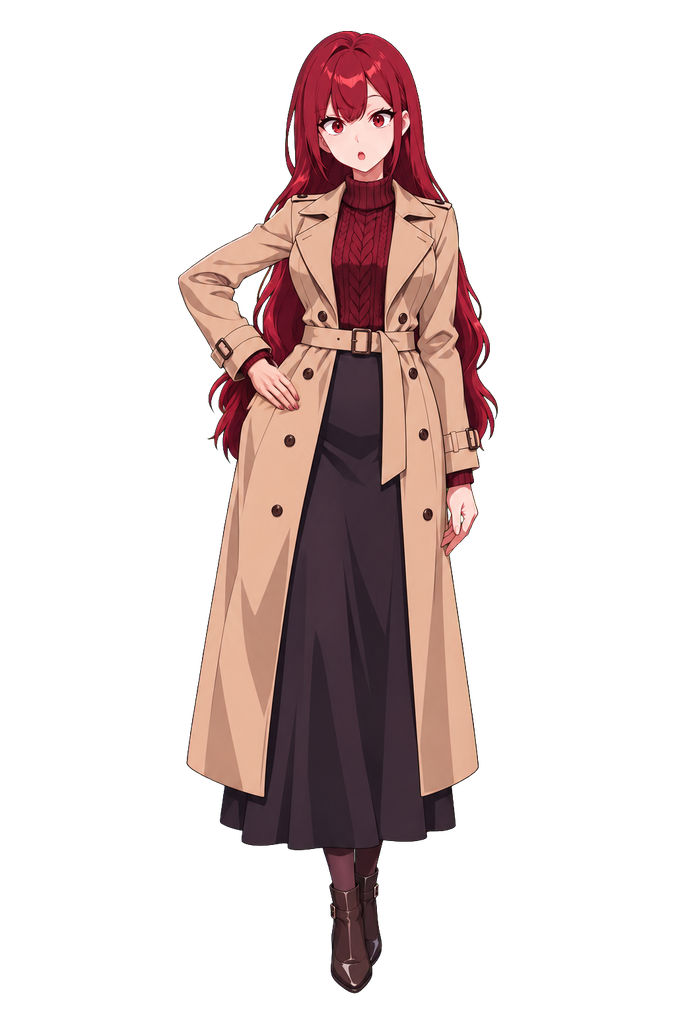
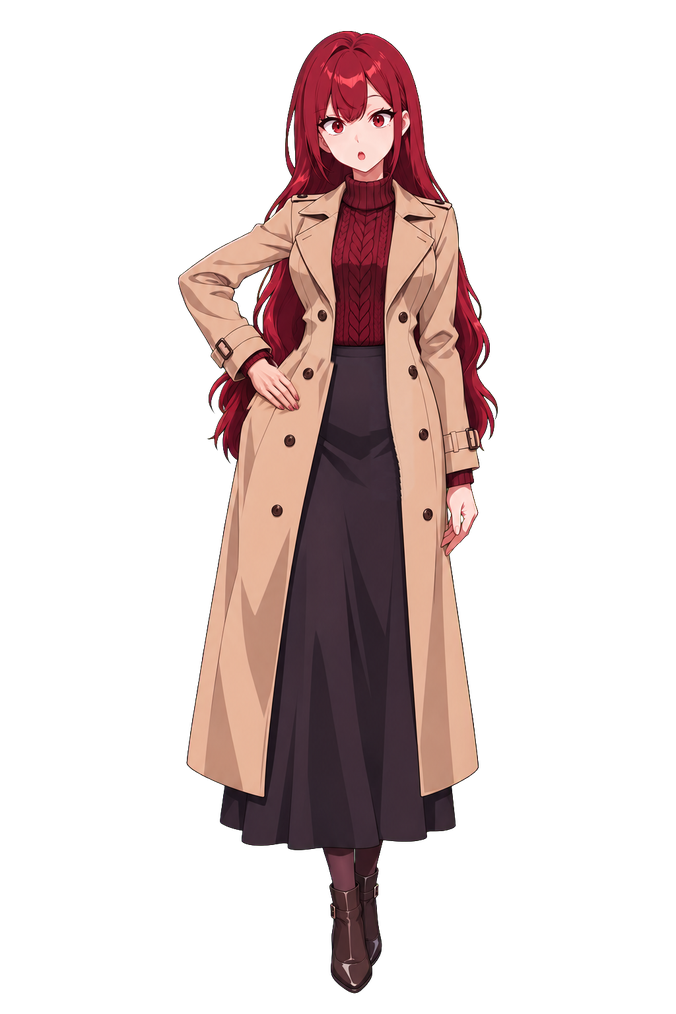
Sync runtime art with beltless Jihyun casual sprites and r16b v003; add sync tool
Claude-Session: https://claude.ai/code/session_01Dnvp3arKhcQBC88sGG3zUd

Changed region(s): [[0.4349, 0.3057, 0.6213, 0.4892]]

diff --git a/Source/tools/sync_runtime_art.py b/Source/tools/sync_runtime_art.py
@@ -1,0 +1,42 @@
+#!/usr/bin/env python3
+# 사용: 저장소 루트에서 python Source/tools/sync_runtime_art.py (Pillow, numpy 필요). 외부 접속 없음.
+# 후보 폴더의 최신 승인본과 게임용 사본을 맞춘다(바뀐 것만 다시 만든다).
+import glob,os,re,json,hashlib
+from PIL import Image
+import numpy as np
+C="CharacterArt/candidates/"
+REJECT={"ria_office_pose01_teary","jihyun_office_pose01_teary","seoyun_office_pose01_teary","jihyun_casual_pose01_teary"}
+def sha(p): return hashlib.sha256(open(p,"rb").read()).hexdigest()
+def latest(dirs):
+    best={}
+    for d in dirs:
+        for f in glob.glob(C+d+"/*.png"):
+            m=re.match(r"(.+)_v(\d{3})\.png$",os.path.basename(f))
+            if m:
+                k,v=m.group(1),int(m.group(2))
+                if k not in best or v>best[k][0]: best[k]=(v,f)
+    return {k:f for k,(v,f) in best.items()}
+def resize_premul(im,size):
+    a=np.array(im.convert("RGBA")).astype(np.float32)/255
+    a[...,:3]*=a[...,3:4]
+    r=np.stack([np.array(Image.fromarray((a[...,i]*255).astype(np.uint8)).resize(size,Image.LANCZOS)).astype(np.float32)/255 for i in range(4)],-1)
+    al=r[...,3:4]; rgb=np.where(al>1e-4,r[...,:3]/np.maximum(al,1e-4),0)
+    return Image.fromarray((np.clip(np.concatenate([rgb,al],-1),0,1)*255).astype(np.uint8))
+man=json.load(open("Source/game/images/characters/SPRITES.json")); files=man["files"]; done=[]
+for k,f in sorted(latest(["chatgpt-v001","chatgpt-v002"]).items()):
+    if k in REJECT or not re.match(r"^(ria|jihyun|yujin|seoyun)_(office|casual|home|winter)_pose0\d_[a-z]+$",k): continue
+    rel=f"images/characters/{k.split('_')[0]}/{k}.png"; out="Source/game/"+rel; s=sha(f)
+    if os.path.exists(out) and files.get(rel,{}).get("source_sha256")==s: continue
+    resize_premul(Image.open(f),(676,1014)).save(out,optimize=True)
+    files[rel]={"from":os.path.relpath(f,C),"sha256":sha(out),"source_sha256":s}; done.append(k)
+man["files"]=dict(sorted(files.items())); json.dump(man,open("Source/game/images/characters/SPRITES.json","w"),ensure_ascii=False,indent=1)
+art=json.load(open("Source/game/images/ART_RUNTIME.json"))
+for d,outdir in [("bg-chatgpt-v001","bg"),("cg-chatgpt-v001","cg")]:
+    for k,f in sorted(latest([d]).items()):
+        name=k.replace("_day","") if outdir=="bg" else k.replace("_scene","")
+        rel=f"images/{outdir}/{name}.jpg"; s=sha(f)
+        if art["files"].get(rel,{}).get("source_sha256")==s: continue
+        Image.open(f).convert("RGB").resize((1280,720),Image.LANCZOS).save("Source/game/"+rel,quality=90,optimize=True)
+        art["files"][rel]={"from":os.path.relpath(f,C),"source_sha256":s,"sha256":sha("Source/game/"+rel)}; done.append(rel)
+json.dump(art,open("Source/game/images/ART_RUNTIME.json","w"),ensure_ascii=False,indent=1)
+print(done)
